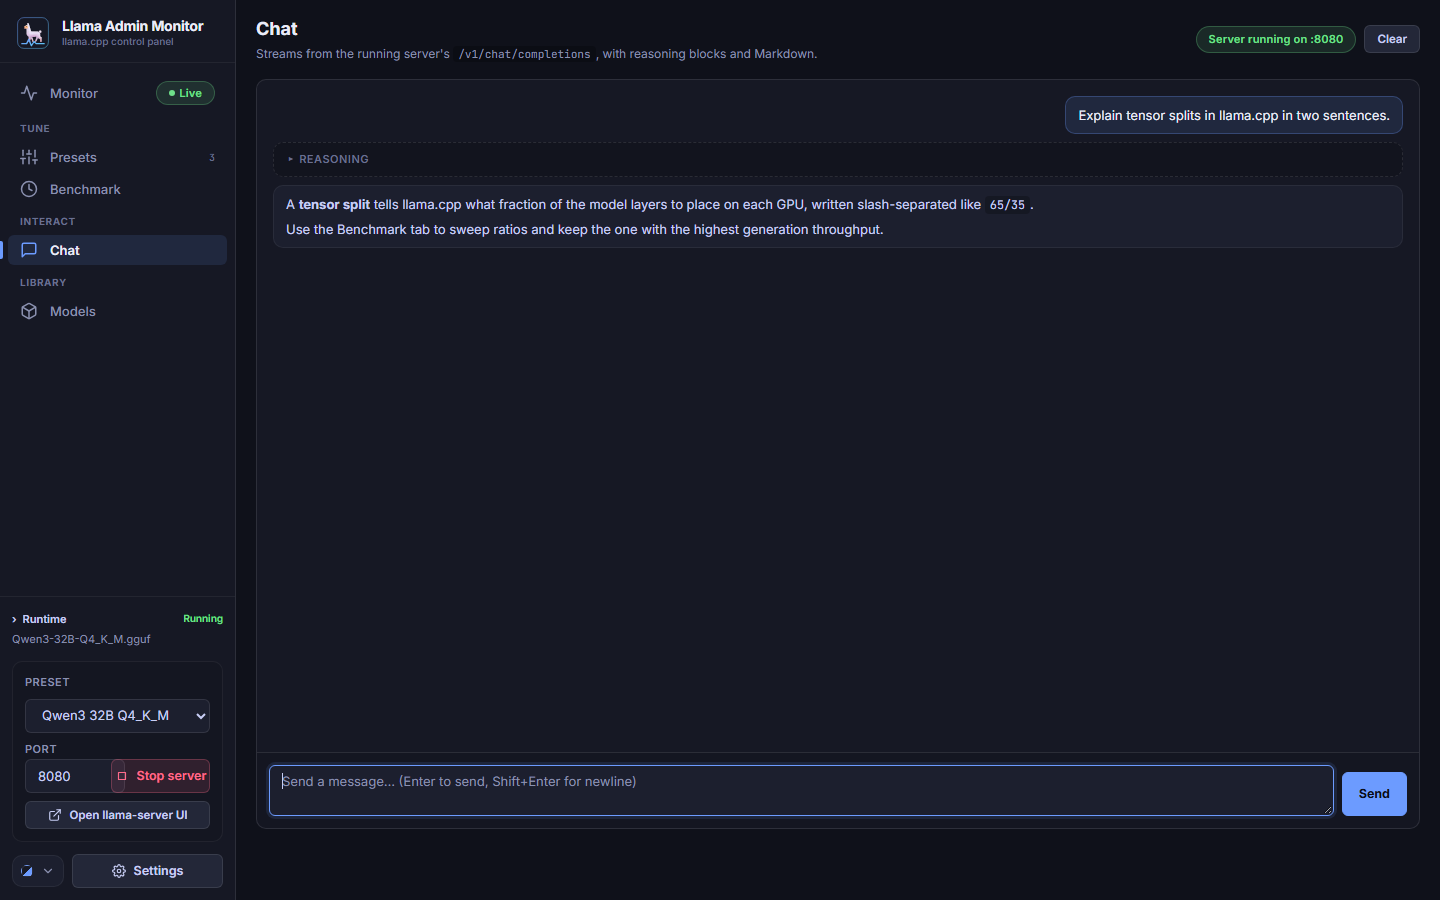
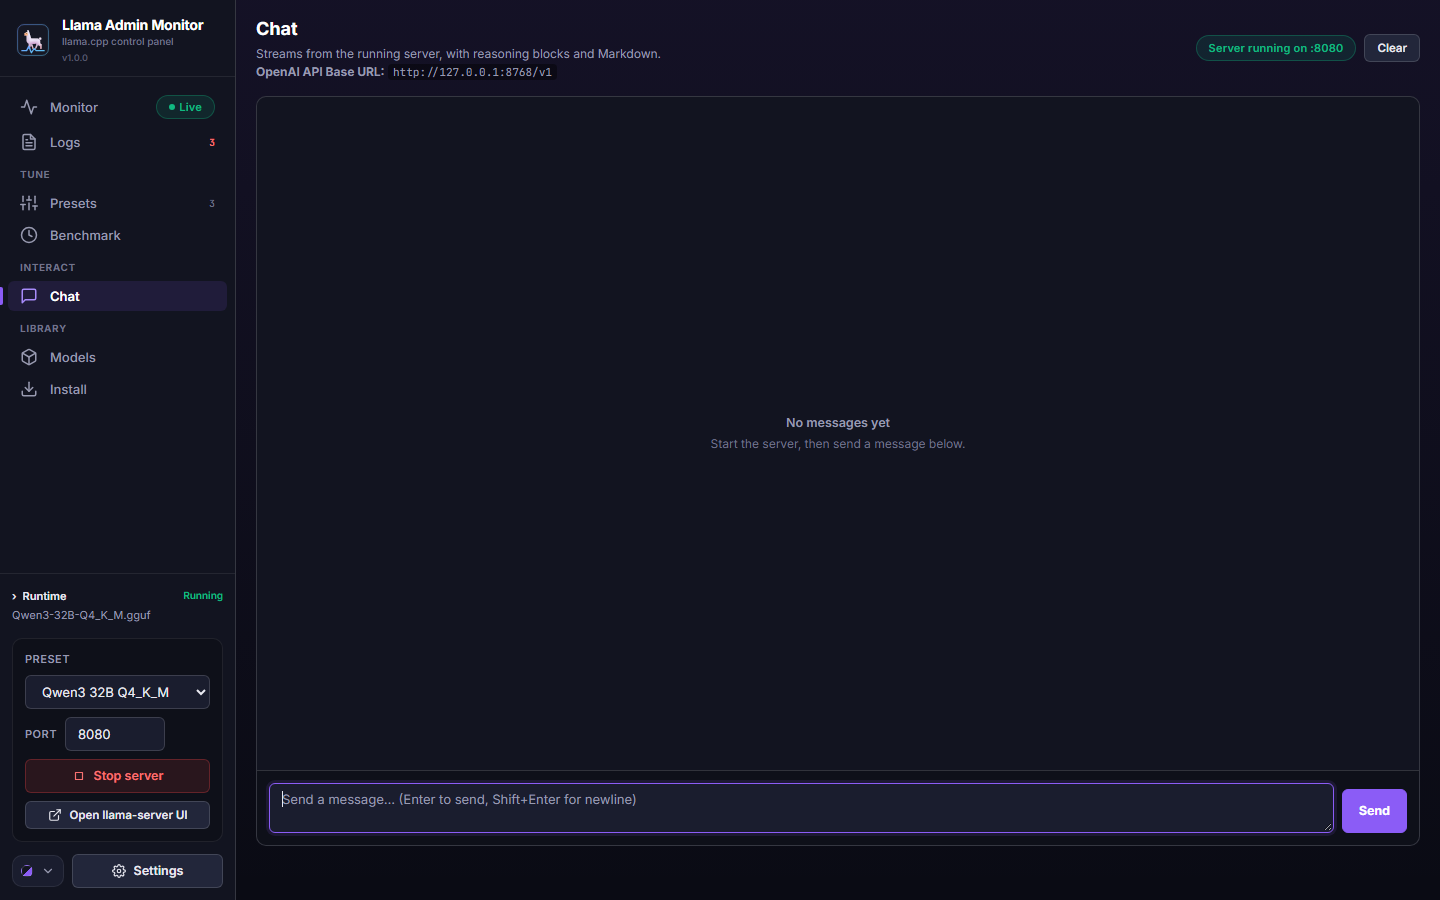
README: refresh screenshots and text for 1.0.0
New Monitor/Install/Logs/Mint screenshots from the current UI; intro,
Web UI, updates/tracks (SemVer stable, CalVer beta) and API table
updated.

diff --git a/README.md b/README.md
@@ -1,14 +1,18 @@
 # Llama Admin Monitor
 
-Web control panel for [llama.cpp](https://github.com/ggerganov/llama.cpp) servers: live GPU and inference monitoring, model management with Hugging Face downloads, multi-GPU VRAM visualisation, and automated tensor-split benchmarking — in a single self-contained Rust binary.
+Web control panel for [llama.cpp](https://github.com/ggerganov/llama.cpp) servers: live GPU, CPU, memory and disk monitoring with an nvtop-style activity view, one-click installs of prebuilt llama.cpp builds (Vulkan, CUDA, ROCm, CPU, Metal), model management with Hugging Face downloads, multi-GPU VRAM visualisation, automated tensor-split benchmarking, an OpenAI-compatible endpoint that follows whichever model is loaded, and in-app updates — in a single self-contained Rust binary.
 
 It began as a fork of [arte-fact/llama-monitor](https://github.com/arte-fact/llama-monitor) (extended into an admin dashboard as [ViriatusOG/llama-monitor](https://github.com/ViriatusOG/llama-monitor)) and now carries a UI modelled on [LLama-GUI](https://github.com/thomas9120/LLama-GUI): a grouped sidebar, card-based pages, and five WCAG-AA themes.
 
 ## Screenshots
 
-Monitor, in the **Nebula** theme:
+Monitor, in the **Nebula** theme — inference, GPU activity with five minutes of history and the processes on each GPU, pooled VRAM, CPU, memory, the disk behind the models directory with SMART health, and one card per GPU:
 
 ![Monitor](docs/images/monitor.png)
+
+| Install llama.cpp | Logs |
+| --- | --- |
+| ![Install](docs/images/install.png) | ![Logs](docs/images/logs.png) |
 
 | Presets | Models |
 | --- | --- |
@@ -180,11 +184,11 @@ SMART is re-read once a minute. Without the rule the card still shows throughput
 
 ## Updates and release tracks
 
-There are two tracks. **main** is stable: tags like `v2026.9.20` publish as GitHub releases. **beta** carries new features first: tags containing `-beta` (for example `v2026.9.21-beta.1`) publish as pre-releases. The release workflow bakes the tag and track into the binary, and **Settings → App Updates** shows both, offers the newer release on your track, and lets you switch tracks.
+There are two tracks. **main** is stable: SemVer tags such as `v1.0.0` publish as GitHub releases. **beta** carries new features first: zero-padded CalVer tags containing `-beta` (for example `v2026.09.22-beta.07`) publish as pre-releases. The release workflow bakes the tag and track into the binary, and **Settings → App Updates** shows both, offers the newer release on your track (a sidebar dot and a toast also announce it), and lets you switch tracks. A locally compiled build shows "local build" and can install either track's release to join it.
 
 Installing an update downloads this platform's asset next to the running executable, checks its size and executable header, stops llama-server, replaces the binary atomically and re-executes it with the same arguments — so it works as a plain process or under systemd (`Restart=always` also covers the rare failure to re-exec). If the download or the swap fails, the running binary is left untouched and the error is shown in the dialog. The executable's directory must be writable by the user running the monitor.
 
-Because the monitor has no authentication, anyone who can reach its port can trigger an update — one more reason to keep it on a trusted network.
+Release checks are cached for five minutes (Check for updates bypasses the cache) and fall back to GitHub's Atom feed when the API rate limit is hit; set `LLAMA_ADMIN_GITHUB_TOKEN` to raise the limit. Because the monitor has no authentication, anyone who can reach its port can trigger an update — one more reason to keep it on a trusted network.
 
 ## CLI reference
 
@@ -213,13 +217,15 @@ llama.cpp expects tensor splits **slash-separated** — `65/35` for two GPUs, `7
 
 The sidebar groups the workspace the way LLama-GUI does:
 
-- **Monitor** — runtime strip, process output, inference card, VRAM bar and one card per GPU. A **Live** badge appears while the server runs.
+- **Monitor** — runtime strip, process output, and the card grid: inference, GPU activity (nvtop-style), VRAM pool, CPU, memory, disk and one card per GPU. Cards can be dragged, reordered with the keyboard and hidden; a **Live** badge appears while the server runs.
+- **Logs** — the monitor's own event log with a problems-only filter and Download. llama-server's own output stays in the Process Output card.
 - **Tune → Presets** — the saved configurations; the active one is what the sidebar's Start button launches.
-- **Tune → Benchmark** — tensor-split sweeps with one-click apply, plus the VRAM bar for reference.
+- **Tune → Benchmark** — tensor-split (and batch/thread) sweeps with one-click apply.
 - **Interact → Chat** — streaming chat against the running server.
 - **Library → Models** — the models directory with VRAM fit and Hugging Face provenance, download and delete.
+- **Library → Install** — prebuilt llama.cpp builds per backend, with update-in-place when upstream publishes a newer tag.
 
-The sidebar footer holds the runtime summary, preset and port selectors, Start/Stop, the theme menu and **Settings** (paths and GPU environment).
+The sidebar footer holds the runtime summary (endpoint and the OpenAI-compatible API URL with a Copy button), preset and port selectors, Start/Stop, the theme menu and **Settings** (paths, GPU environment, App Updates).
 
 ### Themes
 
@@ -270,6 +276,7 @@ The preset editor groups llama.cpp parameters into collapsible sections:
 | `GET` | `/api/settings` | Get persisted UI settings |
 | `PUT` | `/api/settings` | Save UI settings |
 | `GET` | `/api/browse?path=&filter=` | Browse the filesystem |
+| `GET` | `/api/devices?backend=` | Devices `llama-server --list-devices` reports for the configured binary, `cuda`, or `build:<id>` |
 | `GET` | `/api/gpu-env` | Get GPU environment config |
 | `PUT` | `/api/gpu-env` | Save GPU environment config |
 | `ANY` | `/v1/*` | Transparent proxy to the running llama-server's OpenAI-compatible API |
